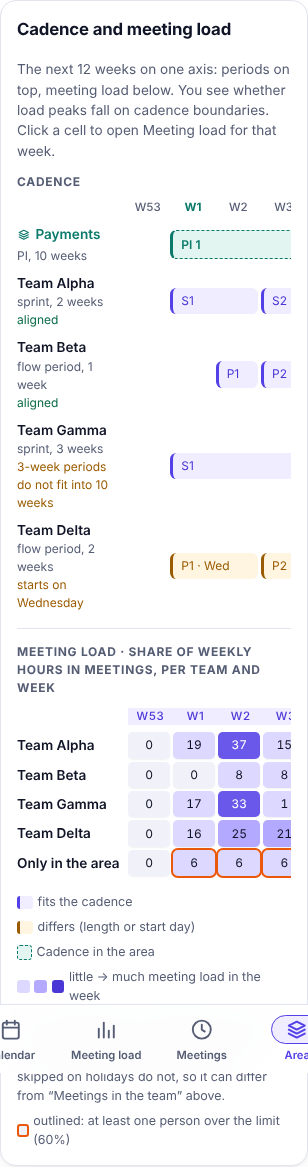
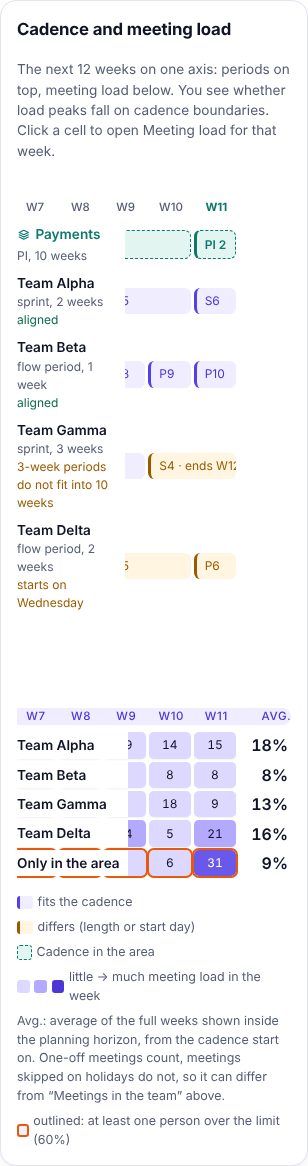
fix: name the horizon in the Avg. tooltip, e2e for the average, retake phone PNGs (#476)

diff --git a/tests/e2e/area-overview.spec.ts b/tests/e2e/area-overview.spec.ts
@@ -79,6 +79,24 @@ test('the area overview compares cadences, shows load and the area steering', as
   await expect(overview.locator('[data-kpi="area"] b')).toHaveText('6.5 h');
 });
 
+test('the average leaves out the week before the horizon and the team starts (#476)', async ({
+  page,
+}) => {
+  // The horizon starts on a Saturday and Team Beta one week later: both 0 weeks stay out.
+  await page.clock.setFixedTime(new Date('2027-01-02T10:00:00'));
+  const overview = await openOverview(page, undefined, (ws) => {
+    ws.settings.horizon = { ...ws.settings.horizon, from: '2027-01-02' };
+    const beta = ws.teams.find((t) => t.id === 'team-beta')!;
+    beta.cadence = { ...beta.cadence, start: '2027-01-11' };
+  });
+  const load = overview.locator('[data-load]');
+  await expect(load.locator('tr[data-team="team-beta"] button[data-week="2027-01-04"]')).toHaveText(
+    '0',
+  );
+  await expect(load.locator('tr[data-team="team-alpha"] td.avg')).toHaveText('18%');
+  await expect(load.locator('tr[data-team="team-beta"] td.avg')).toHaveText('8%');
+});
+
 test('a load cell opens Load for that team and week', async ({ page }) => {
   const overview = await openOverview(page);
   const cell = overview.locator('tr[data-team="team-beta"] button[data-week="2027-01-11"]');

diff --git a/src/ui/views/AreaOverview.svelte b/src/ui/views/AreaOverview.svelte
@@ -368,8 +368,6 @@
       max: percent(maxFte),
     });
   }
-  const average = (cells: LoadCell[], start?: ISODate) =>
-    loadAverage(cells, ws.settings.horizon, start);
 
   // ---------- steering ----------
 
@@ -933,7 +931,7 @@
                     >
                   </td>
                 {/each}
-                <td class="avg">{percent(average(row, start))}</td>
+                <td class="avg">{percent(loadAverage(row, ws.settings.horizon, start))}</td>
               </tr>
             {/snippet}
             {#each teams as team (team.id)}
